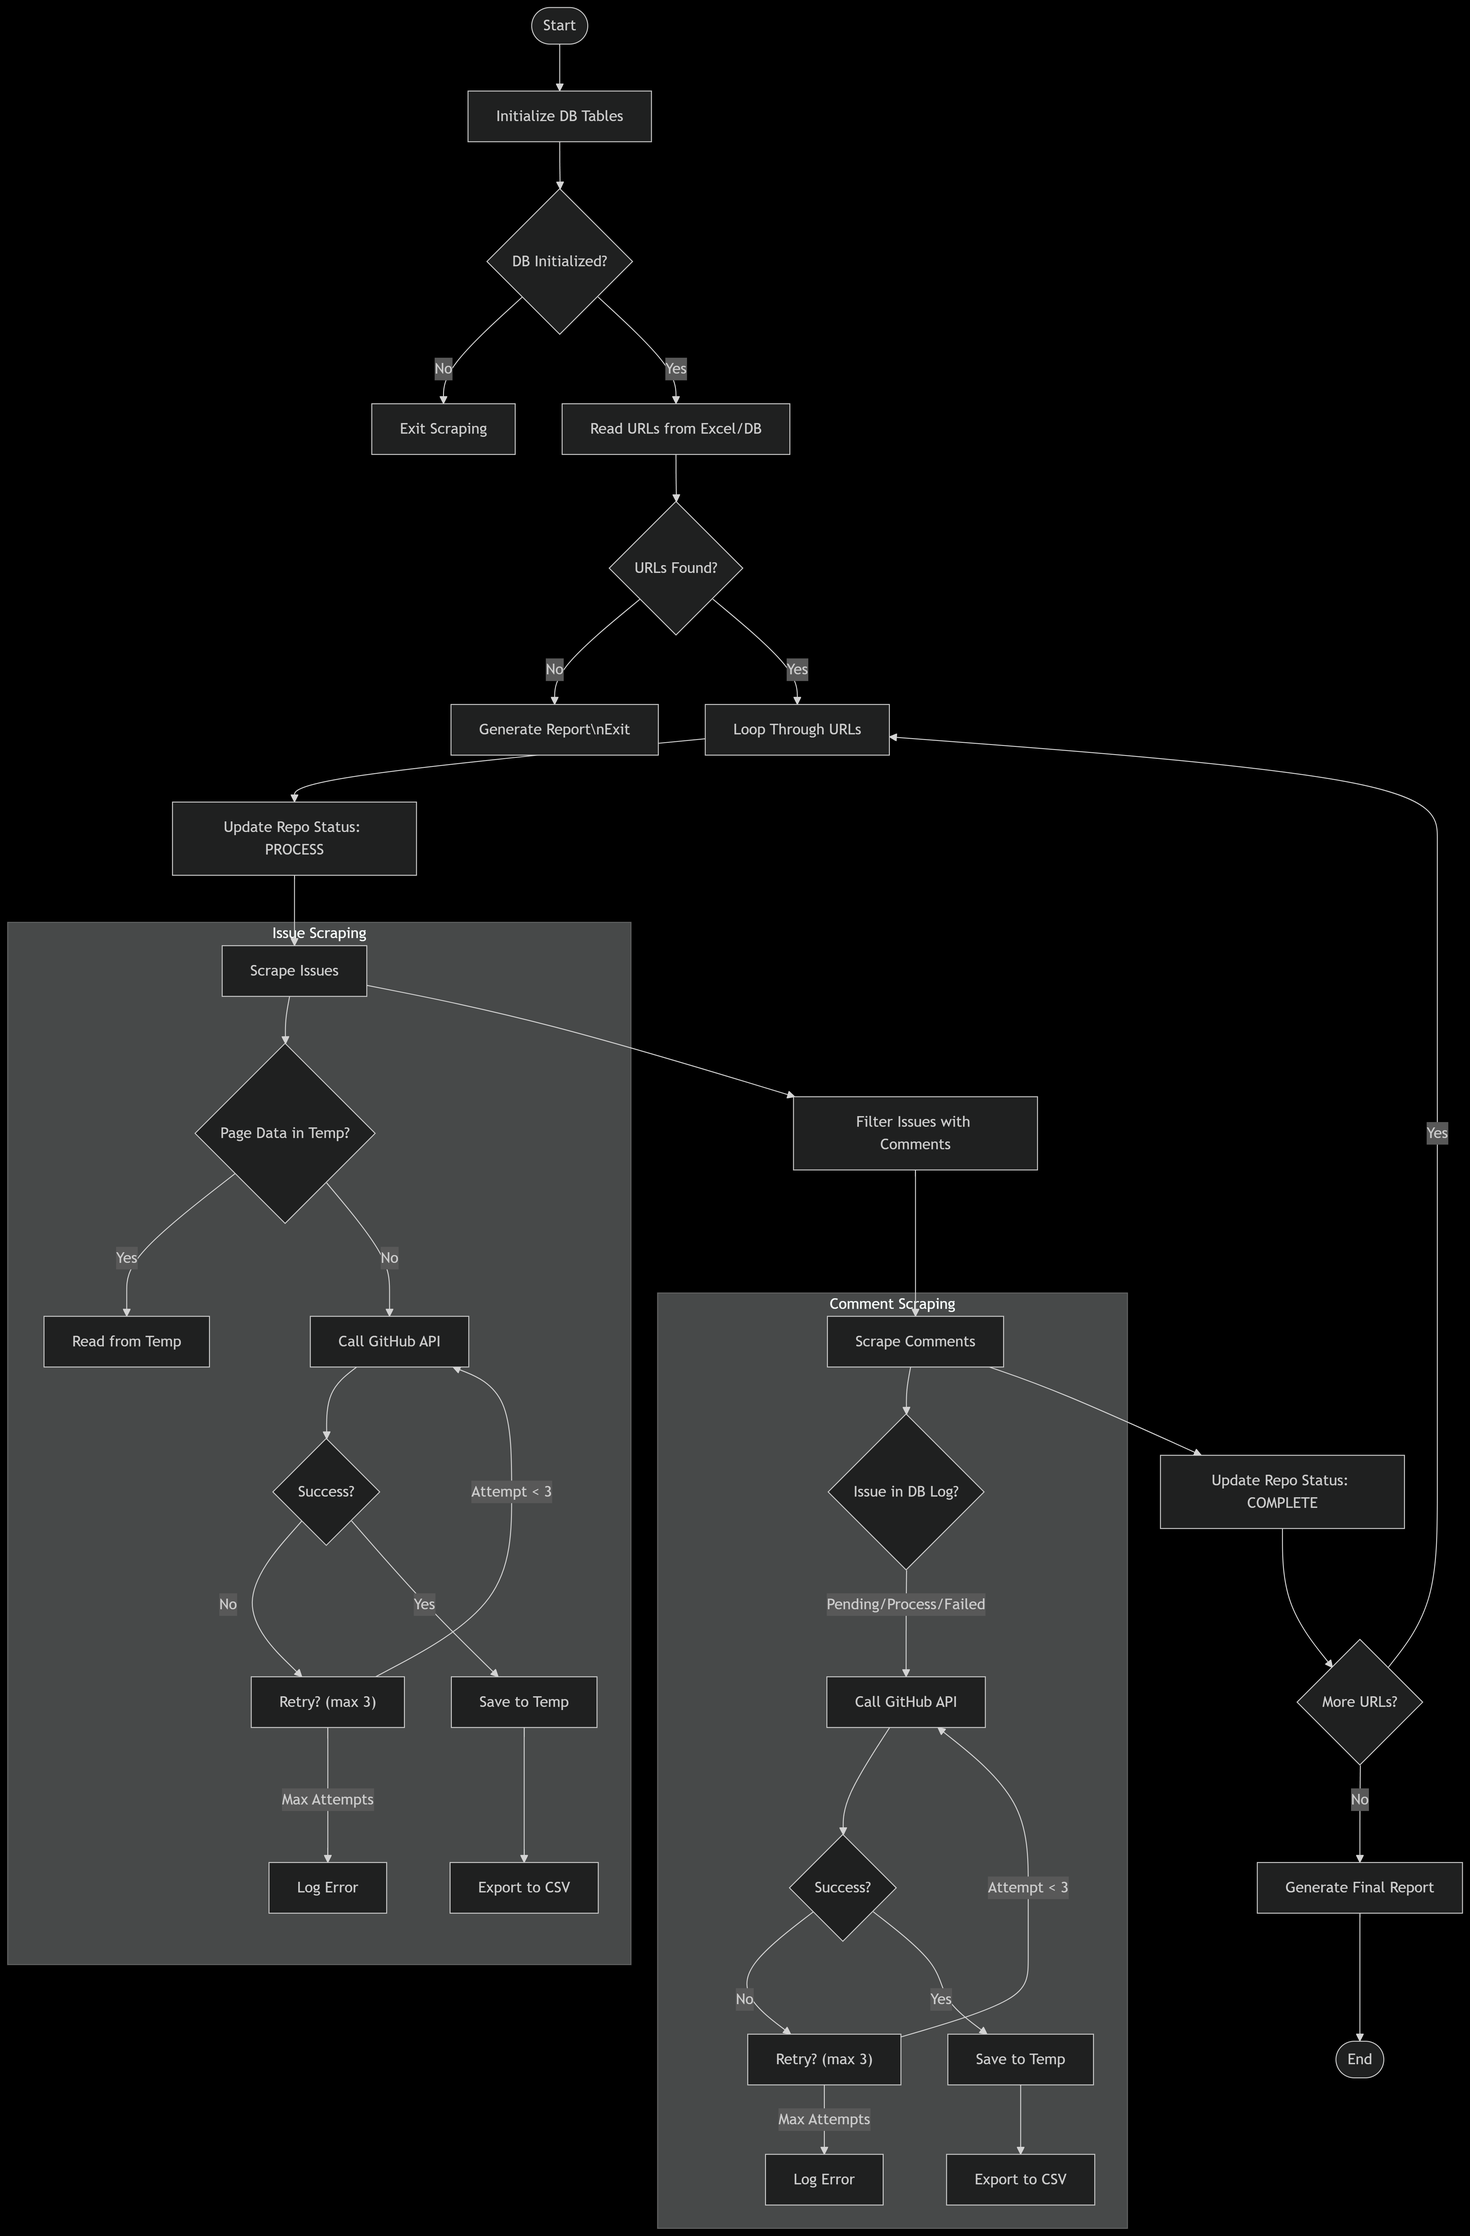
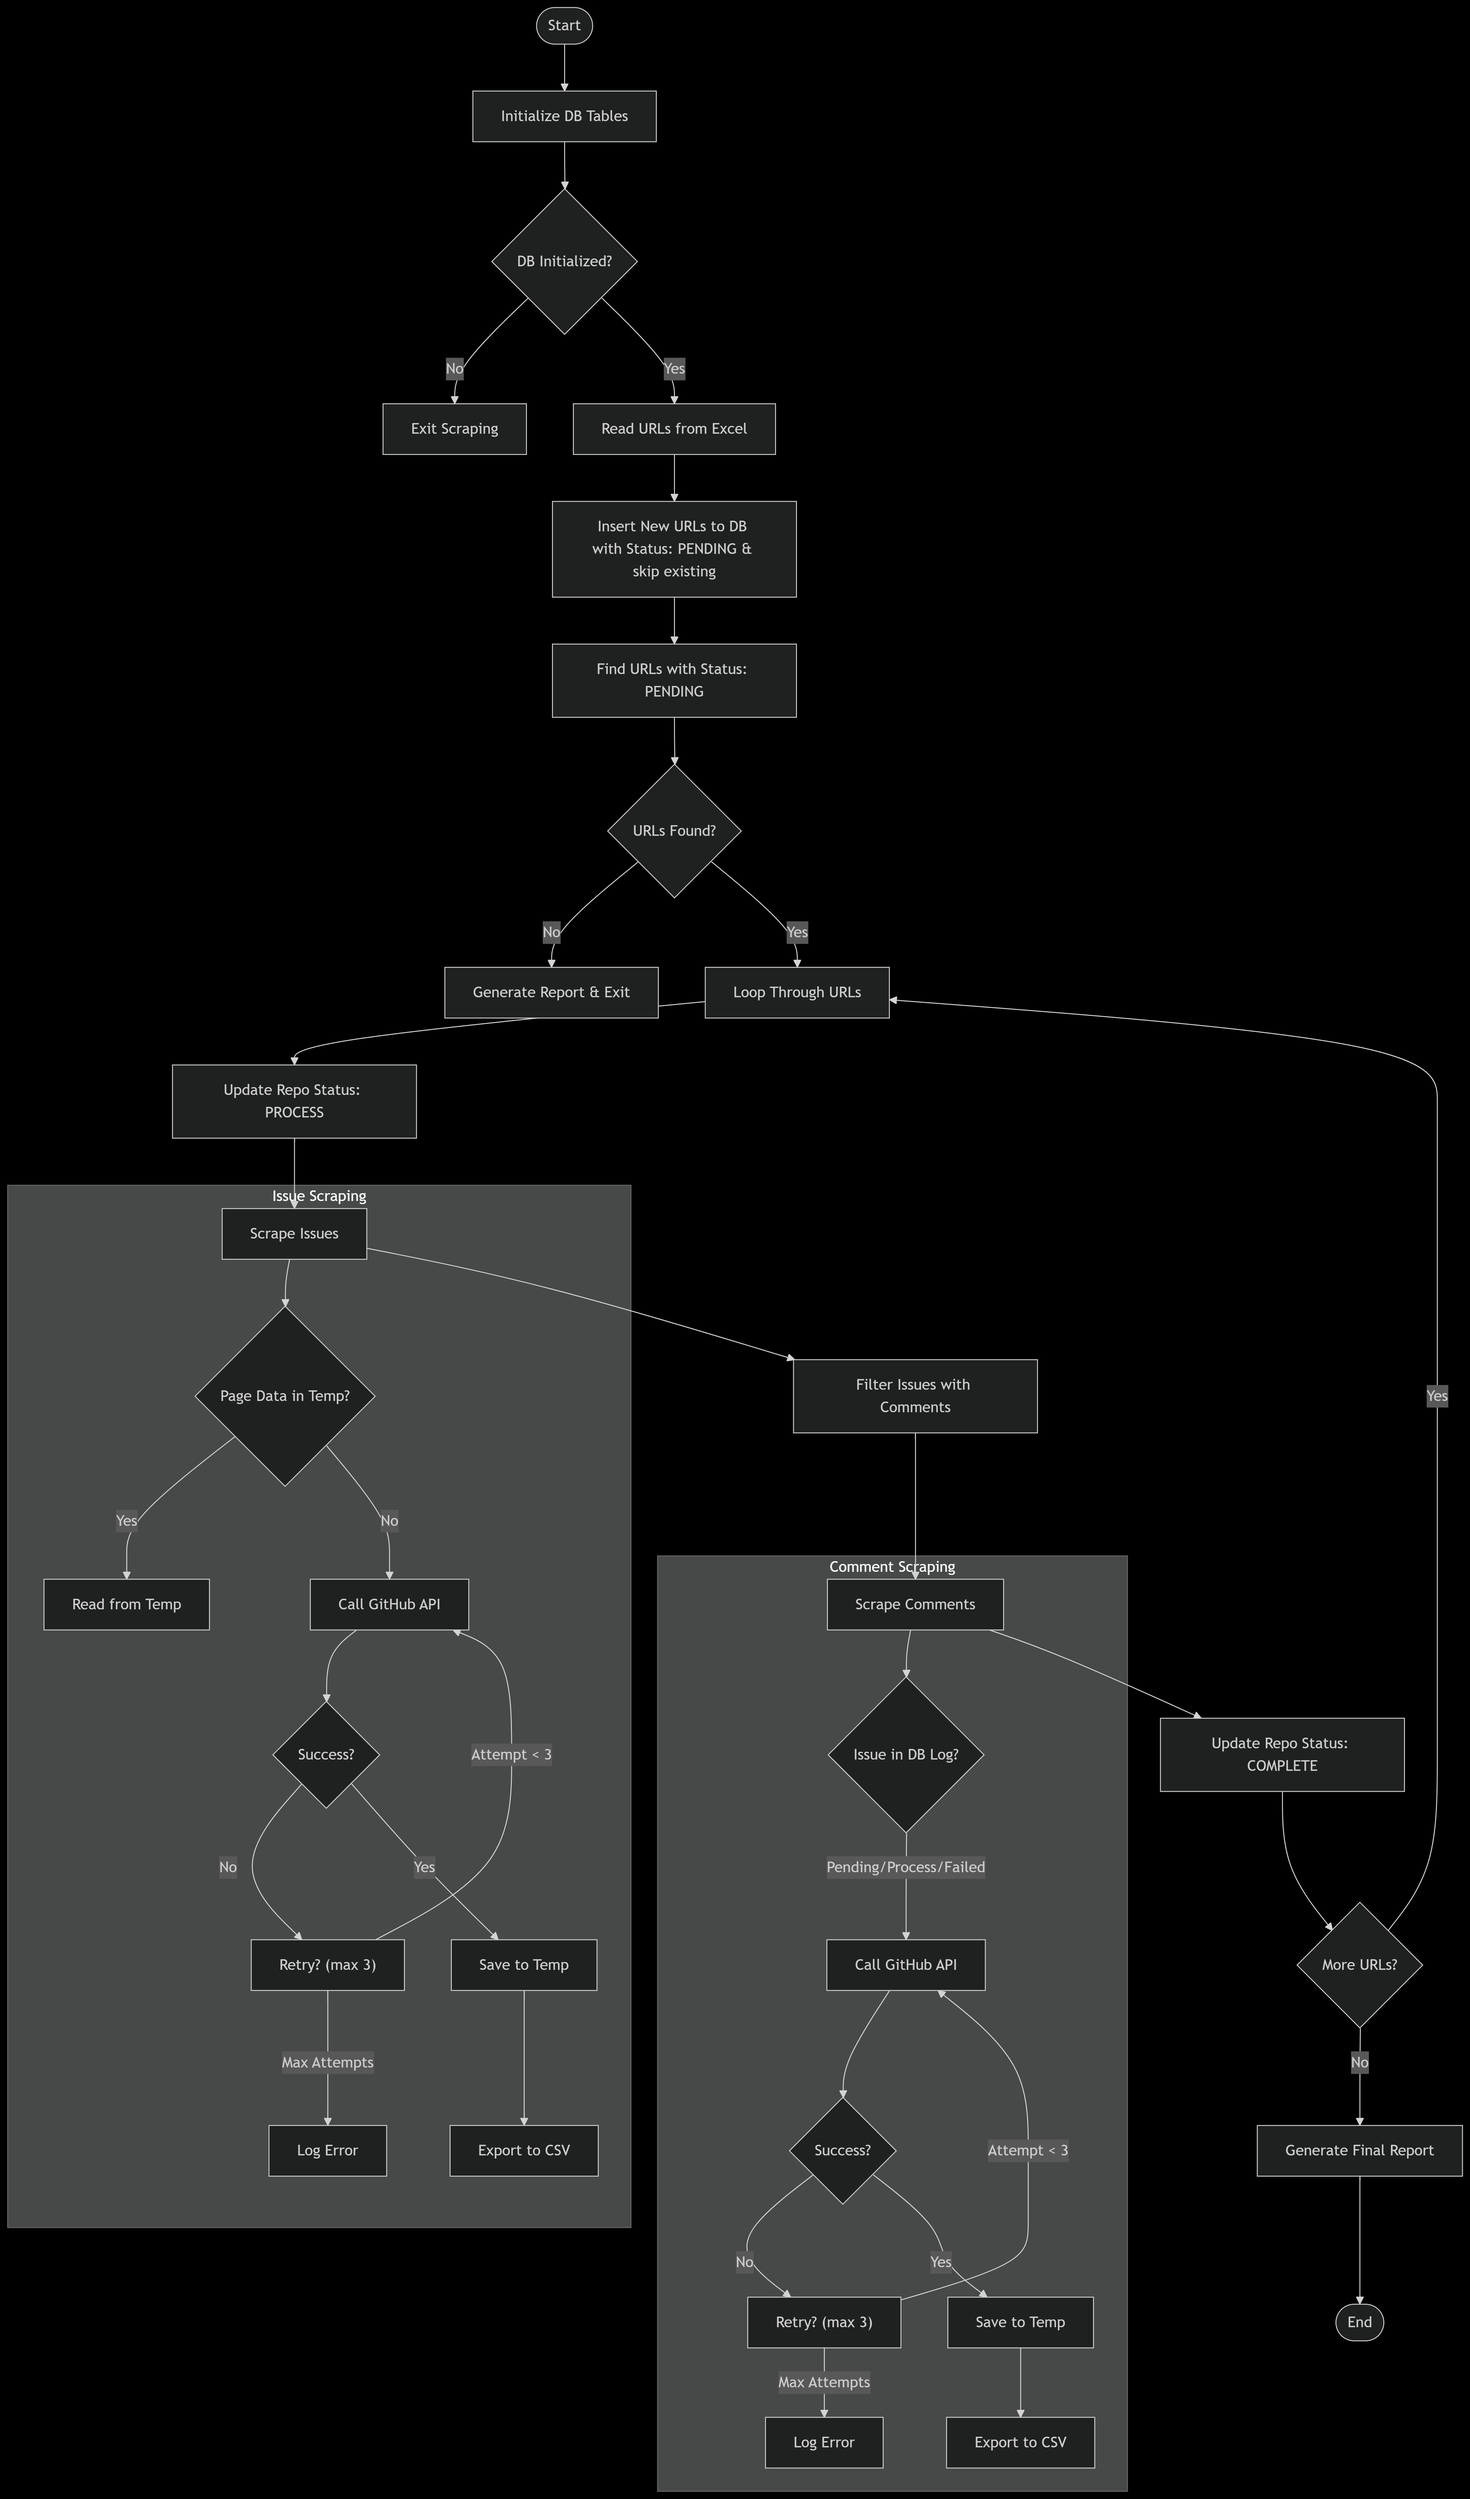
Update README

diff --git a/README.md b/README.md
@@ -13,6 +13,30 @@ This project scrapes GitHub issues and comments, then performs Spark analysis on
 pip install -r requirements.txt
 ```
 
+## Configuration
+
+The project requires a `.env` file in the root directory with the following environment variables. Customize these values according to your specific setup:
+
+```env
+# GitHub CCC personal access token
+GITHUB_TOKEN=your_github_token_here
+
+# Java and Hadoop paths (Windows example)
+JAVA_HOME="C:\\Program Files\\Java\\jdk-17"
+HADOOP_HOME="C:\\Program Files\\Hadoop\\hadoop-3.3.6"
+```
+
+**Important Security Note**:
+
+- Replace `your_github_token_here` with a valid [GitHub personal access token](https://github.com/settings/tokens)
+- The token needs `repo` scope access to read repository issues
+
+**Version Compatibility**:
+
+- PySpark 4.0
+- Hadoop 3.3.6
+- Java 17+
+
 ## Usage
 
 Run the application:
@@ -31,7 +55,7 @@ python -B main.py
 
 - **Scraping Report**: [Detailed statistics and logs](document/de_expsc_assessment_scrape_result.md) from the GitHub data collection process
 - **Analysis Report**: [Comprehensive results](document/de_expsc_assessment_spark_result.md) of the Spark data analysis
-- **SQL Queries Script**: Implementation of [`average_resolution_by_month.sql`](https://github.com/makenaichu970413/exp-science-de-assessment/blob/main/sql/average_resolution_by_month.sql) used in Spark analysis
+- **SQL Script**: Implementation of [`average_resolution_by_month.sql`](https://github.com/makenaichu970413/exp-science-de-assessment/blob/main/sql/average_resolution_by_month.sql) used in Spark analysis
 
 ## GitHub API Endpoints Used
 
@@ -57,8 +81,10 @@ The scraping process involves:
 
 1. **Initialization**:
 
-   - Database tables initialized for logging
-   - Repository URLs loaded from Excel/DB
+   - Check database initialization status
+   - Exit scraping if database not initialized
+   - Read repository URLs from Excel file
+   - Insert new URLs to database with status: PENDING (skip existing)
 
 2. **Repository Processing**:
 
